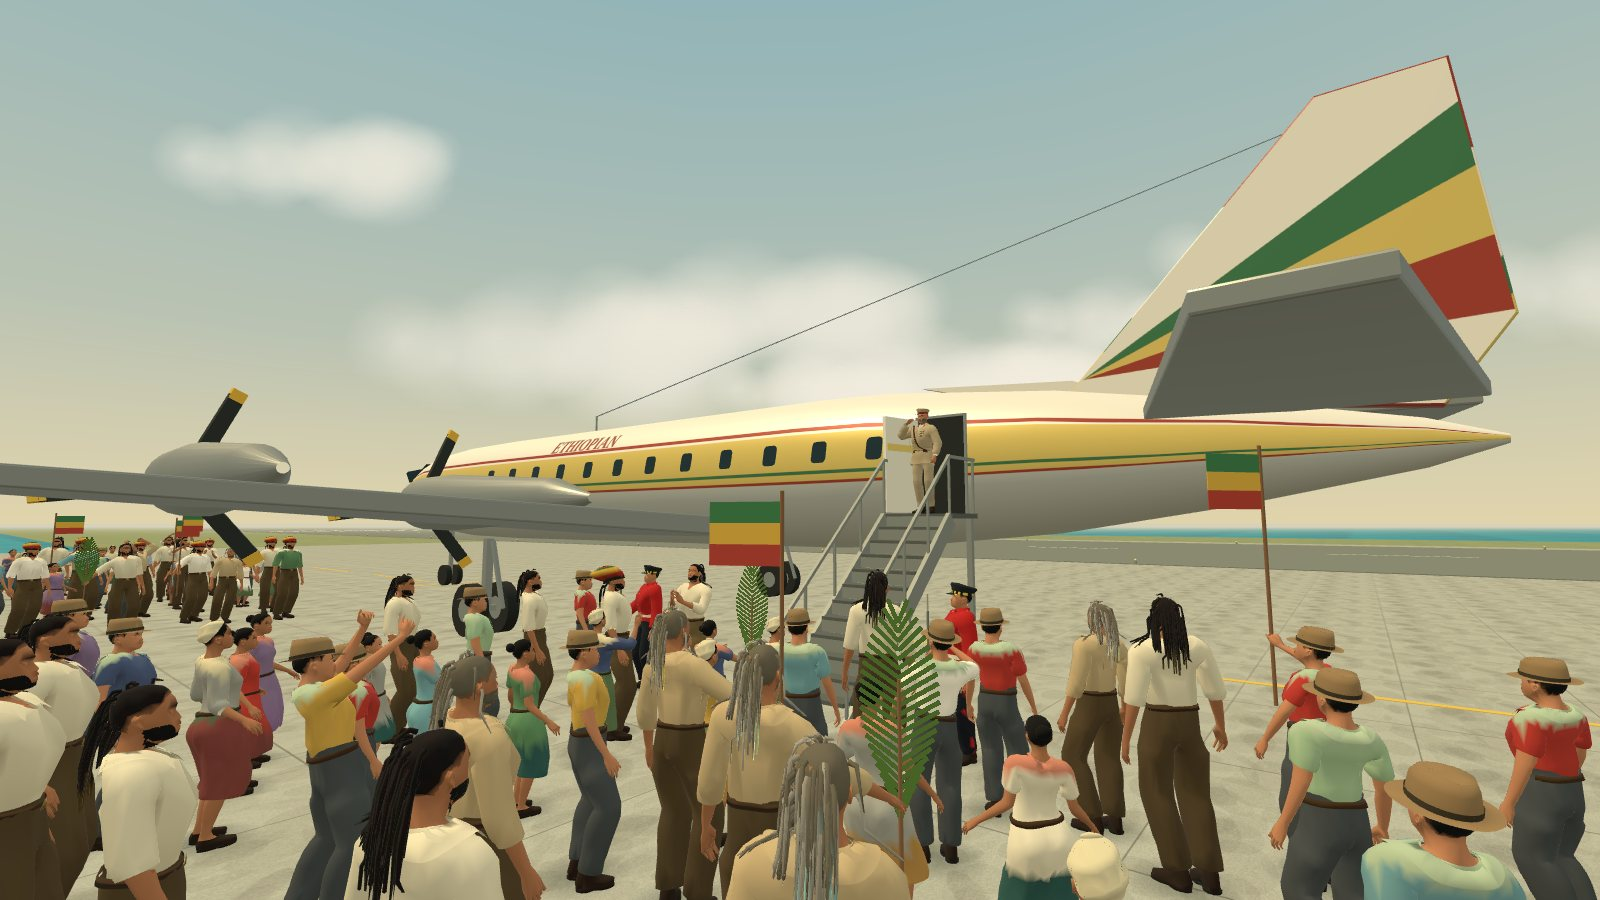
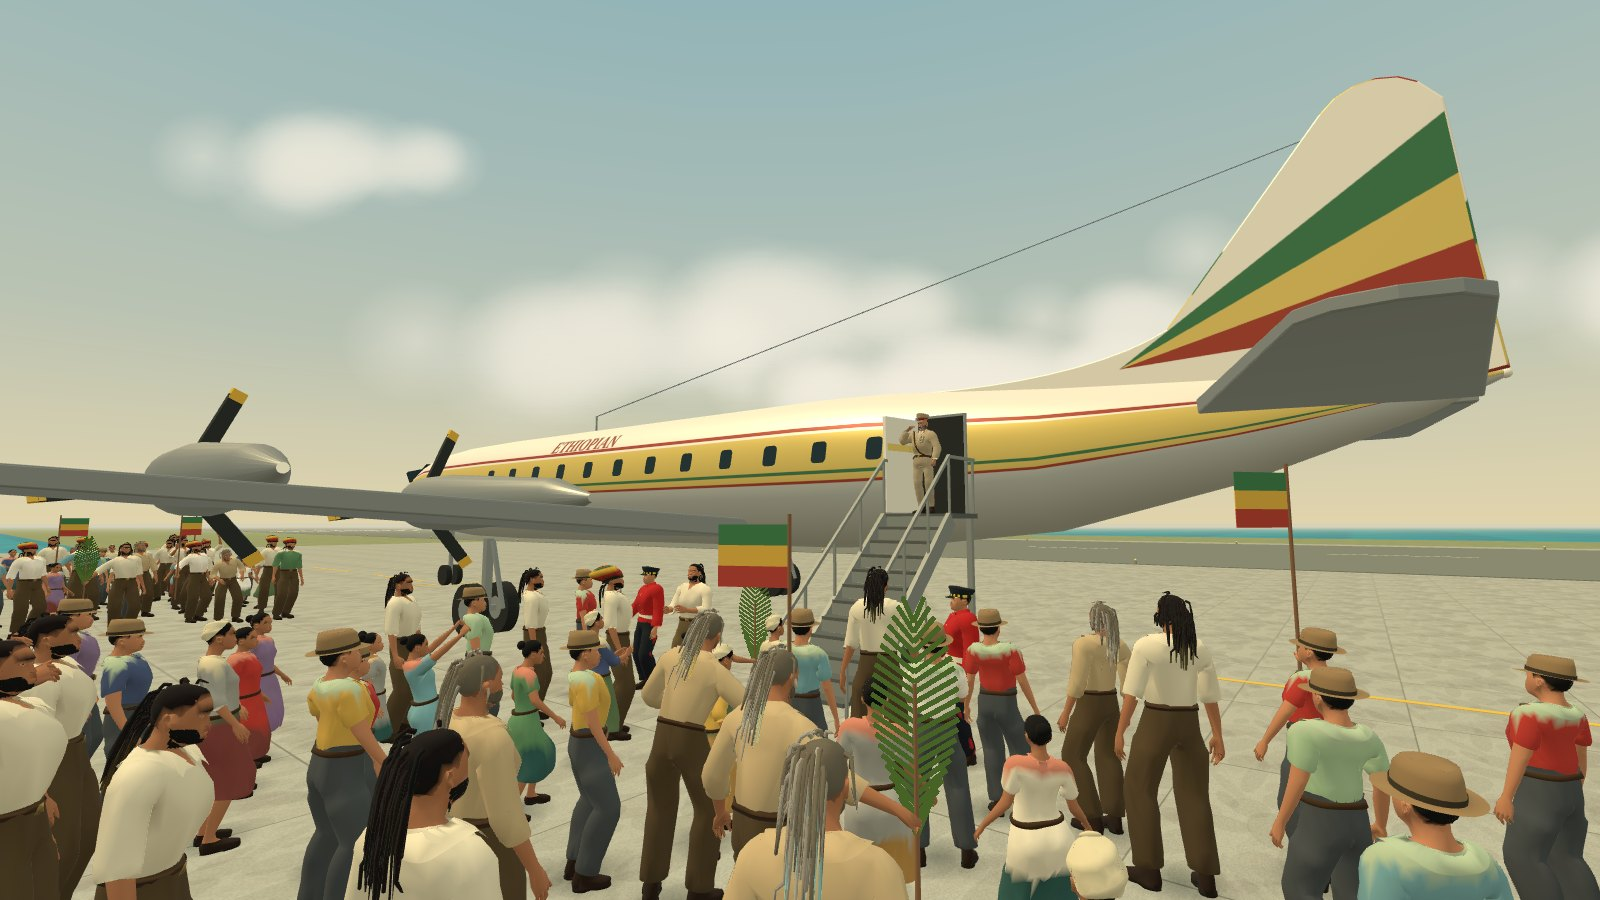
Selassie: game doc for the likeness, tail and actions; menu picture from ?shot=poster
Claude-Session: https://claude.ai/code/session_015MP9pWQNxVKn2taTgAuLiZ

diff --git a/docs/games/selassie.md b/docs/games/selassie.md
@@ -35,6 +35,7 @@ Only current story people receive gold markers. Goals count unordered tasks. The
 - Photographs show spectators on a terminal roof. The terminal massing, tower, roof spectators and apron are a general reconstruction, not a surveyed copy. Source: National Library of Jamaica https://nljdigital.nlj.gov.jm/items/show/824
 - **The aircraft (checked again 16 November 2026).** LIFE's editor's note to Lynn Pelham's photographs calls it "the emperor's DC-6" (https://time.com/3880376/haile-selassie-in-jamaica-photos-from-a-rastafari-milestone/). The Gleaner's 1966 report says he "stood on the steps of an aircraft of Ethiopian airliner which had brought him from Trinidad and Tobago" and describes "the insignia of a roaring lion on the front" (https://jamaica-gleaner.com/article/news/20241030/haile-selassie-i-cries-pandemonium-erupts-palisadoes-airport). Ethiopian Air Lines bought Douglas DC-6Bs from 1956/58; in the 1960s they were registered ET-AAX, ET-AAY and ET-AAZ (Ken Fielding's Air Transport Archive, ET-AAY at Frankfurt, 8 December 1967: https://www.flickr.com/photos/kenfielding/5574946065). The airline became a share company and took the name Ethiopian Airlines in 1965.
   - **Confirmed and modelled:** a four-engine Douglas DC-6 type of Ethiopian's, at Palisadoes, with the passenger door at the back on the left (port) side and boarding steps rolled to it, as in the arrival photographs. The model is built to the DC-6B's published size: about 32.2 m long, 35.8 m span, 8.7 m to the top of the fin, a 3.3 m fuselage, four radial engines with 4 m three-blade propellers, tricycle gear (`games/selassie/src/aircraft.js`).
+  - **The tail (owner's note "the wing of the tail is off", 16 November 2026).** Rebuilt to the DC-6/DC-6B layout: the tail cone sweeps up behind the rear door (the underside rises, the top line stays nearly level) instead of narrowing symmetrically; the horizontal tail is about 11.6 m across (it was 13.4 m), flat with no dihedral, a straight tapered planform with a little sweep on the leading edge and rounded tips, set low on the tail cone on its centre line (before, it sat at the top of the fuselage and reached past the end of the tail); the fin is one outline with a long dorsal fillet rising from the top of the fuselage into a straight swept leading edge, a rounded tip 8.74 m above the ground (it was square) and a nearly upright rudder down to the end of the tail cone, with a white tail light. The three tail bands keep their general reconstruction and are refitted to the new fin. Views: `?shot=plane&view=side|rear|tail|rear3q|top`. The head check's camera test follows the swept-up tail.
   - **Not confirmed, so kept general:** which of the three aircraft flew that day (no registration is shown; the earlier "ET-AAZ" and the made-up name "The White Nile" are removed), the exact paint scheme (the gold cheatline with red and green lines, the white top and the tail bands in the Ethiopian colours are a general reconstruction from the owner's reference photographs; the tail colours follow the owner's later twin-engine reference) and the exact lion badge (a stylised lion's head in a ring on the nose, standing for the lion the Gleaner describes, not a copy of the real badge). The title reads only "ETHIOPIAN", which both the old and the 1965 names begin with.
   - The arrival photograph record: https://www.gettyimages.co.uk/detail/news-photo/haile-selassie-i-emperor-of-ethiopia-arrives-at-palisadoes-news-photo/75572629 (not readable from this machine; not used for any detail above).
 - The Gleaner's report also says it had rained about an hour before he came down, and that he waved and was moved to tears at the top of the steps. The cinematic shows the salute from the owner's reference and clip and a wave at the foot of the steps; it does not show tears or rain.
@@ -53,7 +54,24 @@ Close figures retain separate garments and the full skeleton. Crowd copies join 
 
 Selassie's uniform has a khaki tunic and lapels, narrow pale shirt opening and tie, red gorget tabs, small multicolour ribbon bars, flat service stars, Sam Browne belt and shoulder strap, fine gold cords, khaki shoulder boards and a low peaked cap. The shoulder strap's bone weights are smoothed along its length, so its edge no longer juts where it crosses the shoulder. He salutes at the top of the rear port steps with the owner's clip (below).
 
-His face (review of 16 November 2026, `tools/selassie/people/sel_emperor66.json`): a narrower, longer oval face, a higher forehead, a longer and narrower nose with a slight hump and a lowered tip, leaner cheeks and a narrow chin. The beard is now the short full beard of the 1960s photographs: over the jaw and the lower cheeks, joined to the moustache at the corners of the mouth, grey at the chin and darker at the sides, taken from the face's own surface so it cannot float (`tools/selassie/imperial_face.py`). Under the chin it stops 3.5 cm behind the chin's tip, in front of the throat, which cleared the "Beard shows through Collar" findings (up to 30 mm). Skin stays at `[151, 103, 75]`, inside the rule 9 range, with the game's 1.55 multiplier. The eyes read narrow under the cap's brim in close-ups, as they did before; a face target that tried to deepen them made them look closed and was taken out. Likeness remains a stylised reconstruction, not a claim of pixel-level identity. Note: `docs/games/selassie-face.jpg` and `selassie-salute.jpg` are game renders for review, not archive photographs.
+His face and beard (owner's notes "his beard is off" and "we need Selassie to look exactly like he does", 16 November 2026). The face was rebuilt against dated photographs of him from 1963 to 1969 (listed below), set beside game renders of the head at the same angles (front, three-quarter, profile) over eleven rounds.
+
+- **Reference photographs** (used only for comparison; none is a texture or a game asset, and none is copied into the repository):
+  - 1 October 1963, Washington, standing in the car beside President Kennedy, khaki uniform and cap, profile. Office of the Naval Aide to the President; NARA (ARC 194270). Public domain (US government work). https://commons.wikimedia.org/wiki/File:Selassie_and_Kennedy_1963.jpg
+  - 26 November 1963, the Oval Office with President Johnson, three-quarter view, no cap. LBJ Library. Public domain. https://commons.wikimedia.org/wiki/File:Haile_Selassie_with_LBJ_Nov_26,_1963.jpg
+  - 13 February 1967, the White House, saluting in khaki service uniform and peaked cap, profile. Credited to Charles Tasnadi; Wikimedia Commons lists it as public domain (check before reuse). https://commons.wikimedia.org/wiki/File:Emperor_Haile_Selassie_I_with_President_LBJ.jpg
+  - 2 May 1967, with Abebe Retta, three-quarter view, no cap. Wikimedia Commons lists it as public domain. https://commons.wikimedia.org/wiki/File:Haile_Selassie_and_Abebe_Retta_in_1967.jpg
+  - 14 February 1967, state visit, on the White House stairs beside President Johnson (shows how small he was). Yoichi Okamoto, LBJ Library. Public domain. https://commons.wikimedia.org/wiki/File:Haile_Selassie_state_visit_1967_(4).jpg
+  - January 1969, the Netherlands, full face in dress uniform. Eric Koch for Anefo, Nationaal Archief. CC BY-SA 3.0 NL. https://commons.wikimedia.org/wiki/File:Haile_Selassie_(1969).jpg
+- **Beard** (`tools/selassie/imperial_face.py`): one shell taken from the face's own surface, pushed out inside its outline and sunk under the skin outside it, so its edge follows a smooth line instead of the mesh's grid (the old edge was saw-toothed, and the beard was two side patches with a bare chin). As in the photographs it covers the chin and the whole jaw back to the ears, where it joins the hair in front of them; on the cheek it stops at a neat line from beside the nostril up and out to the ear; the moustache covers the upper lip and turns down past the mouth corners into the beard; the lower lip shows. It is fuller at the chin, grey-white at the chin, darker grey at the sides and a dark grey moustache. Small loose pieces round the nose are removed. Under the chin it still stops 3.5 cm behind the chin's tip.
+- **Face** (`tools/selassie/people/sel_emperor66.json`): MakeHuman targets for a long, narrow face (narrower head, longer head, leaner cheeks, high cheekbones, a narrower jaw), a high forehead and a heavy brow, a long nose with a convex bridge, a hump and a drooping, rounder tip and wider nostrils, heavier upper lids and bags under the eyes, a thinner lower lip, larger ears that stand out, a thinner neck, and age 0.87 (about 73, his age in 1966).
+- **Eyes.** The "narrow, squinting" eyes were a builder fault, not the face: when the crowd, focus and phone bodies are joined, the eyes, which have no painted colours, took black, fully transparent vertex colours, so the game drew empty pale sockets in every joined body of this game (Ruth's family, the crowd and him). `tools/selassie/finish_person.py` now gives them white, opaque colours before joining, and every body was rebuilt.
+- **Height and build.** He was a small, slight man (about 1.57 m; beside President Johnson in 1967 he is clearly shorter). The recipe's height went from 0.38 to 0.23, which puts the top of his head at about 1.57 m (eyes at 1.46 m), with a slighter weight and less muscle.
+- **Skin** `[140, 103, 80]`, inside the rule 9 range, less orange than before, which is closer to the photographs in the game's light; the game's 1.55 multiplier is unchanged.
+- **Cap** (`tools/selassie/imperial_uniform.py`): it sits lower, with the peak just above the eyebrows as in the 1963 and 1967 profiles, and the crown stands up higher at the front. The black peak from the owner's arrival-day references is kept; note that the 1963 and 1967 photographs of the same khaki uniform show a khaki peak with a gold edge and a brown leather chin strap, which the owner may want to compare with the arrival photographs.
+- **What still differs** (a low-poly game head cannot be identical to a photograph): his eyes in photographs are deeper under the brow and hooded, with lighter brown irises; the game's shared eye texture is darker and the eyes still look rounder. His nose is broader at the nostrils and his cheekbones wider than the game's. His beard has real texture and fullness, which the game shows only as grain in its colours. Under the cap the game's hair is short; his was full and bushy (it shows only below the cap). In close-ups the shared Idle tips his head forward a little more than he held it.
+
+Side-by-side comparison sheets are game renders beside the photographs; they are kept out of the repository because the Nationaal Archief picture needs attribution and the sheets are working images. Note: `docs/games/selassie-face.jpg` and `selassie-salute.jpg` are game renders for review, not archive photographs.
 
 ## The arrival cinematic (review of 16 November 2026)
 
@@ -64,6 +82,10 @@ His face (review of 16 November 2026, `tools/selassie/people/sel_emperor66.json`
 `shared/anim-sources/owner/Descending_Stairs.fbx` was retargeted and measured on his body and **does not fit**: it is one step down that does not loop (the first and last poses differ by up to 93 degrees at the knees and ankles, with both feet together at each end), and on his longer legs the standing foot sinks 10 to 20 cm into the step; with that foot held still, each step carries him only about 4 to 9 cm down for 40 cm or more forward, nothing like aircraft steps. Played step after step it would show feet sliding or sinking, so it is not shipped. His walk down is not shown step by step: the camera turns to the crowd, then finds him at the foot of the steps. A clip made on a body like his, or a hand-made step-down (`tools/anims/handmade.py`), would let the walk down be shown.
 
 **The crowd.** About 130 people on the apron are placed at random (a fixed seed) at least 0.8 m apart, never in rows, denser near the steps and clear of the wing, the propellers, the steps and the space at their foot. Each background person gets a body, a height and colours from a hash of their number (`crowdLook` in `cast.js`): children (about 1 in 11) and elders are mixed in everywhere, women and men, four different Rastafari recipes (an elder, a younger man, a woman and a man in a knitted tam) for about half of the airport crowd, and everyday 1960s shirt, dress, trouser and skirt colours. Joined crowd bodies have one painted material, so their clothes are recoloured in their vertex colours (`recolour` in `main.js`), keeping skin, hair, hats and shoes; about 3 in 10 Rastafari visitors keep their recipe's own clothes. People wave, clap, cheer and point at the steps at their own rhythm. Belief is shown as people's own: nothing is presented as a miracle.
+
+**Varied actions, no standing zombies** (owner's note, 16 November 2026; `games/selassie/src/life.js`, `actions`). Every background person in every place gets clips that suit them, from the shared library (`anim-clips.json` now also ships `HappyIdle`, `IdleM`, `OldIdle`, `HeadTurn`, `Agree`, `Nod`, `WaveSlow` and `WipeSweat`): nobody stands in the plain `Idle`. Men shift their weight, look round, turn their heads, wipe their brows in the heat; women likewise; elders (and Grandma Adina) stand with an old person's stoop; listeners in a chat nod and agree while the speaker talks with gestures; at the airport everyone who watches waves, waves slowly, claps, cheers and points; the ceremonial police stand at ease and only turn their heads. The children in the yard and on the road are real children's bodies who play chase (run, stop, cheer, clap). A fruit seller works the road stall, calling and pointing at her fruit. The shared ambient system starts each clip at its own moment and speed. In the arrival cinematic everyone who watches turns to follow the aircraft as it lands and taxis in, then the steps once it stands there. Behind the title screen the crowd's detail (heads that turn, an update every frame) goes to the people nearest the drifting camera, not to Ruth; in the cinematic it stays with Ruth, because handing it from group to group at each cut snapped heads round (the head check found five). Not shown: lifting children (no clip for it) and seated elders (this game's joined bodies have no seated skirt).
+
+**The check, `?test=actions`** (also part of `?test=audit` and `?test=all`; `games/selassie/src/actioncheck.js`): it steps the real frame loop through the four places, with the player turning and walking so everyone is looked at, and through the whole cinematic, and fails if more than 12% of the people in view (and at least 4) play the same clip at the same moment and speed, or if anyone in view stays in the plain `Idle` with a still head for over 6 seconds.
 
 **The title screen** shows the arrival at Palisadoes behind the title instead of the empty yard: the game loads the airport first, poses the arrival at the salute (aircraft at the steps, door open, the welcome around them) and leaves it to live, as the other games' title screens do: the camera drifts slowly, the crowd keeps waving, clapping and turning, and Haile Selassie salutes again now and then. On a phone held upright the camera keeps the steps and him in the middle. The title text keeps its dark backing. Start (or Continue) loads the yard as before.
 
@@ -111,7 +133,7 @@ Results from 16 November 2026 (branch `claude/selassie-review`, review of the ow
 ### Remaining findings for independent review
 
 - The descending-stairs clip does not fit his body (above); his walk down the steps is implied by a cut, not shown.
-- The face is still a stylised likeness; the eyes read narrow under the cap in close-ups. Compare with the photographs before calling it final.
+- The face is a close but stylised likeness (see "What still differs" above). Compare with the arrival photographs before calling it final.
 - The aircraft's exact registration, paint and lion badge on 21 April 1966 are not confirmed (above).
 - Recoloured crowd clothes keep the recipe's light and dark grain, so a few shirts and dresses show a lighter collar or a second tone.
 - The earlier walking diagnostics (child and Selassie loops in the shared `Walk`) are unchanged; Selassie does not walk in the cinematic.
